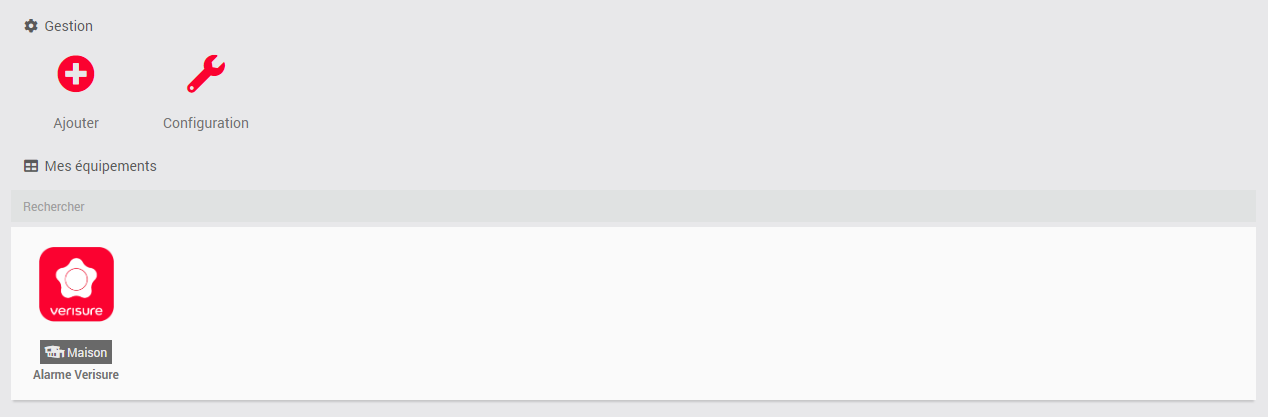
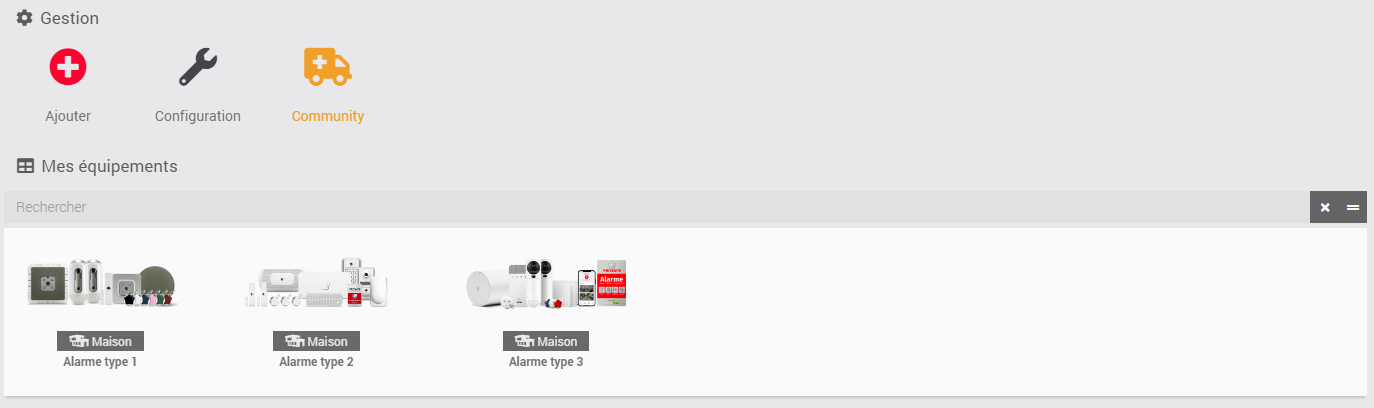
Update Verisure documentation

diff --git a/verisure/fr_FR/index.md b/verisure/fr_FR/index.md
@@ -18,7 +18,7 @@ Par conséquent, le développeur n'approuve ni ne tolère aucune utilisation ina
 > **Tip**
 >
 > La **version minimale de Jeedom** nécessaire au bon fonctionnement du plugin est la **version 4.0**
-> Le plugin a été d'ors et déjà compatible avec la **version 4.4** de Jeedom ainsi que les **versions Debian 11 & 12**
+> Le plugin est d'ors et déjà compatible avec la **version 4.4** de Jeedom ainsi que les **versions Debian 11 & 12**
 
 
 # Principe 
@@ -235,7 +235,7 @@ Un CRON est automatiquement créé sur base de 30 min comme indiqué dans la con
 Vous pouvez à tout moment utiliser la commande **Rafraichir** afin de rafraichir le statut de l'alarme.
 
 
-# Roadmap
+# Roadmap & support
 
 Ce plugin évoluera au fil du temps en fonction de vos demandes et des possibilités des API Versiure.
 
@@ -248,4 +248,10 @@ Les prochaines versions verront arriver les features suivantes :
 >
 >Vous pouvez faire votre demande par en créant une demande "enhancement" [GitHub](https://github.com/Xav-74/verisure/issues/new).
 >
->N'hésitez pas non plus à venir échanger sur ce plugin sur le forum Jeedom !
+>N'hésitez pas non plus à venir échanger sur ce plugin sur le Community Jeedom !
+
+
+En cas de dysfonctionnement du plugin, vous pouvez créer directement un sujet sur le Community depuis la page principale du plugin. Les informations principales et utiles de Jeedom et du plugin sont automatiquement ajoutés. N'hésitez pas pas à copier les logs (mode debug) pour une résolution plus rapide !
+
+
+![Community](../images/community.png)
